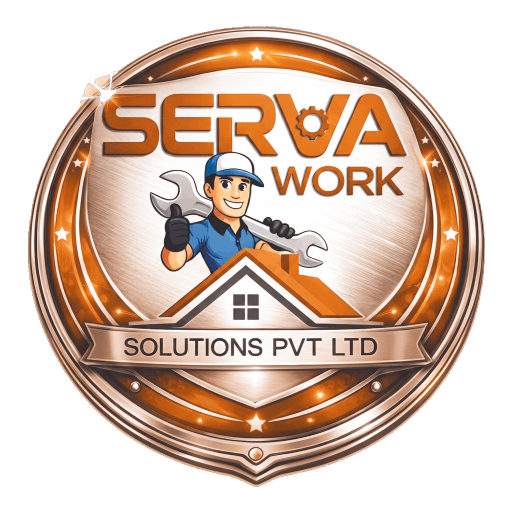
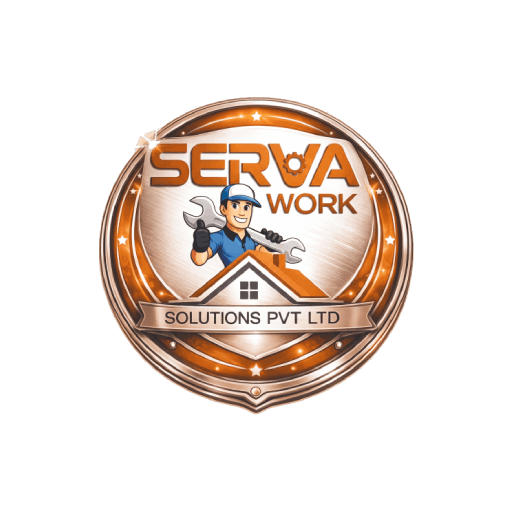
update

diff --git a/customer_app/src/screens/ForceUpdateScreen.tsx b/customer_app/src/screens/ForceUpdateScreen.tsx
@@ -1,0 +1,109 @@
+import { Linking, Platform, StyleSheet, Text, View } from "react-native";
+import { SafeAreaView } from "react-native-safe-area-context";
+import { Feather } from "@expo/vector-icons";
+import Button from "../components/ui/Button";
+import { colors, radius, spacing } from "../theme/colors";
+
+type ForceUpdateScreenProps = {
+    message: string;
+    storeUrl: string;
+    applicationName?: string;
+    currentVersion: string;
+    requiredVersion: string;
+};
+
+export default function ForceUpdateScreen({
+    message,
+    storeUrl,
+    applicationName,
+    currentVersion,
+    requiredVersion,
+}: ForceUpdateScreenProps) {
+    const openStore = () => {
+        if (!storeUrl) return;
+        void Linking.openURL(storeUrl);
+    };
+
+    return (
+        <SafeAreaView style={styles.safe}>
+            <View style={styles.container}>
+                <View style={styles.iconWrap}>
+                    <Feather name="download-cloud" size={40} color={colors.primary} />
+                </View>
+
+                <Text style={styles.title}>Update required</Text>
+                {applicationName ? <Text style={styles.appName}>{applicationName}</Text> : null}
+
+                <Text style={styles.message}>{message}</Text>
+
+                <Text style={styles.versionLine}>
+                    Your version: {currentVersion} · Required: {requiredVersion}
+                </Text>
+
+                <Button
+                    label={Platform.OS === "ios" ? "Open App Store" : "Open Play Store"}
+                    onPress={openStore}
+                    fullWidth
+                    disabled={!storeUrl}
+                />
+
+                {!storeUrl ? (
+                    <Text style={styles.hint}>Store link is not configured. Contact support.</Text>
+                ) : null}
+            </View>
+        </SafeAreaView>
+    );
+}
+
+const styles = StyleSheet.create({
+    safe: {
+        flex: 1,
+        backgroundColor: colors.muted,
+    },
+    container: {
+        flex: 1,
+        justifyContent: "center",
+        paddingHorizontal: spacing.xl,
+        gap: spacing.md,
+    },
+    iconWrap: {
+        alignSelf: "center",
+        width: 88,
+        height: 88,
+        borderRadius: 44,
+        backgroundColor: "rgba(240,116,26,0.12)",
+        alignItems: "center",
+        justifyContent: "center",
+        marginBottom: spacing.sm,
+    },
+    title: {
+        fontSize: 24,
+        fontWeight: "800",
+        color: colors.foreground,
+        textAlign: "center",
+    },
+    appName: {
+        fontSize: 15,
+        fontWeight: "600",
+        color: colors.mutedForeground,
+        textAlign: "center",
+        marginTop: -spacing.sm,
+    },
+    message: {
+        fontSize: 15,
+        lineHeight: 22,
+        color: colors.foreground,
+        textAlign: "center",
+    },
+    versionLine: {
+        fontSize: 12,
+        color: colors.mutedForeground,
+        textAlign: "center",
+        marginBottom: spacing.sm,
+    },
+    hint: {
+        fontSize: 12,
+        color: colors.destructive,
+        textAlign: "center",
+    },
+});

diff --git a/customer_app/src/helpers/appVersion.ts b/customer_app/src/helpers/appVersion.ts
@@ -1,0 +1,78 @@
+import { Platform } from "react-native";
+import Constants from "expo-constants";
+import * as Application from "expo-application";
+import type { GeneralSettings } from "../api/types";
+import { isExpoGo } from "../notifications/push";
+
+export function getCurrentAppVersion(): string {
+    return Application.nativeApplicationVersion ?? Constants.expoConfig?.version ?? "0.0.0";
+}
+
+export function compareVersions(a: string, b: string): number {
+    const parse = (v: string) => v.trim().split(".").map((part) => {
+        const n = parseInt(part.replace(/[^\d]/g, ""), 10);
+        return Number.isFinite(n) ? n : 0;
+    });
+
+    const pa = parse(a);
+    const pb = parse(b);
+    const len = Math.max(pa.length, pb.length);
+
+    for (let i = 0; i < len; i += 1) {
+        const diff = (pa[i] ?? 0) - (pb[i] ?? 0);
+        if (diff !== 0) return diff < 0 ? -1 : 1;
+    }
+
+    return 0;
+}
+
+export type AppUpdateStatus = {
+    blocking: boolean;
+    message: string;
+    storeUrl: string;
+    currentVersion: string;
+    requiredVersion: string;
+};
+
+function platformUpdateFields(settings: GeneralSettings) {
+    if (Platform.OS === "android") {
+        return {
+            requiredVersion: settings.app_version_android?.trim() ?? "",
+            forceUpdate: settings.force_update_android === "1",
+            message: settings.force_update_message_android?.trim() ?? "",
+            storeUrl: settings.app_url_android?.trim() ?? "",
+        };
+    }
+
+    if (Platform.OS === "ios") {
+        return {
+            requiredVersion: settings.app_version_ios?.trim() ?? "",
+            forceUpdate: settings.force_update_ios === "1",
+            message: settings.force_update_message_ios?.trim() ?? "",
+            storeUrl: settings.app_url_ios?.trim() ?? "",
+        };
+    }
+    return null;
+}
+
+export function getAppUpdateStatus(settings: GeneralSettings): AppUpdateStatus {
+    const currentVersion = getCurrentAppVersion();
+    const empty: AppUpdateStatus = { blocking: false, message: "", storeUrl: "", currentVersion, requiredVersion: "", };
+
+    if (Platform.OS !== "android" && Platform.OS !== "ios") return empty;
+    if (isExpoGo()) return empty;
+
+    const platform = platformUpdateFields(settings);
+    if (!platform?.forceUpdate || !platform.requiredVersion) return empty;
+
+    const isOutdated = compareVersions(currentVersion, platform.requiredVersion) < 0;
+    if (!isOutdated) return empty;
+
+    return {
+        blocking: true,
+        message: platform.message || "A new version of the app is available. Please update from the store to continue.",
+        storeUrl: platform.storeUrl,
+        currentVersion,
+        requiredVersion: platform.requiredVersion,
+    };
+}

diff --git a/customer_app/src/context/SettingsContext.tsx b/customer_app/src/context/SettingsContext.tsx
@@ -1,7 +1,6 @@
 import { createContext, useCallback, useContext, useEffect, useMemo, useState, type ReactNode } from "react";
 import { fetchGeneralSettings } from "../api";
 import type { GeneralSettings } from "../api/types";
-import { DEFAULT_APP_SETTINGS, mergeAppSettings } from "./settingsDefaults";
 
 type SettingsContextValue = {
     settings: GeneralSettings;
@@ -9,6 +8,35 @@ type SettingsContextValue = {
 };
 
 const SettingsContext = createContext<SettingsContextValue | null>(null);
+
+export const DEFAULT_APP_SETTINGS: GeneralSettings = {
+    favicon: "",
+    logo: "",
+    application_name: "",
+    copyright: "",
+    address: "",
+    email: "",
+    phone: "",
+    brand_tagline: "",
+    facebook: "",
+    twitter: "",
+    linkdin: "",
+    instagram: "",
+    force_update_android: "",
+    force_update_ios: "",
+    app_version_android: "",
+    app_version_ios: "",
+    app_url_android: "",
+    app_url_ios: "",
+    force_update_message_android: "",
+    force_update_message_ios: "",
+    maintenance: "",
+    maintenance_toggle: "",
+    information_banner: "",
+    information_banner_toggle: "",
+    baseUrl: "",
+    uploadUrl: "",
+};
 
 export function SettingsProvider({ children }: { children: ReactNode }) {
     const [settings, setSettings] = useState<GeneralSettings>(DEFAULT_APP_SETTINGS);
@@ -18,7 +46,7 @@ export function SettingsProvider({ children }: { children: ReactNode }) {
         void (async () => {
             const response = await fetchGeneralSettings();
             if (response.status && response.data) {
-                setSettings(mergeAppSettings(response.data));
+                setSettings({ ...DEFAULT_APP_SETTINGS, ...(response.data || {}) });
                 setBootstrapping(false);
             } else {
                 setBootstrapping(false);

diff --git a/customer_app/App.tsx b/customer_app/App.tsx
@@ -1,14 +1,18 @@
+import { useMemo } from "react";
 import { StatusBar } from "expo-status-bar";
 import { ActivityIndicator, StyleSheet, Text, View } from "react-native";
 import { SafeAreaProvider } from "react-native-safe-area-context";
 import { AuthProvider, useAuth } from "./src/context/AuthContext";
 import { SettingsProvider, useSettings } from "./src/context/SettingsContext";
+import { getAppUpdateStatus } from "./src/helpers/appVersion";
 import AppNavigator from "./src/navigation/AppNavigator";
+import ForceUpdateScreen from "./src/screens/ForceUpdateScreen";
 import { colors } from "./src/theme/colors";
 
 function AppBootstrap() {
     const { bootstrapping: settingsBoot, settings } = useSettings();
     const { bootstrapping: authBoot } = useAuth();
+    const updateStatus = useMemo(() => getAppUpdateStatus(settings), [settings]);
 
     if (settingsBoot || authBoot) {
         return (
@@ -18,6 +22,21 @@ function AppBootstrap() {
                     <Text style={styles.splashTitle}>{settings.application_name}</Text>
                 ) : null}
             </View>
+        );
+    }
+
+    if (updateStatus.blocking) {
+        return (
+            <>
+                <ForceUpdateScreen
+                    message={updateStatus.message}
+                    storeUrl={updateStatus.storeUrl}
+                    applicationName={settings.application_name}
+                    currentVersion={updateStatus.currentVersion}
+                    requiredVersion={updateStatus.requiredVersion}
+                />
+                <StatusBar style="dark" />
+            </>
         );
     }
 

diff --git a/backend/src/seeders/settings.seeder.js b/backend/src/seeders/settings.seeder.js
@@ -28,9 +28,9 @@ export const SETTINGS_SEED_ROWS = [
     [5, "sms_sender", "TextLocal Sender Id", "text", "AYTSMS"],
     [6, "force_update_android", "Force Update Android", "check", "1"],
     [6, "force_update_ios", "Force Update IOS", "check", "1"],
-    [6, "app_version_android", "App Version Android App", "number", "1.0"],
-    [6, "app_version_ios", "App Version IOS App", "number", "1.0"],
-    [6, "app_url_android", "App URL Android App", "text", "com.adiyogi.fintech"],
+    [6, "app_version_android", "App Version Android App", "text", "1.0"],
+    [6, "app_version_ios", "App Version IOS App", "text", "1.0"],
+    [6, "app_url_android", "App URL Android App", "text", "https://play.google.com/store/apps/details"],
     [6, "app_url_ios", "App URL IOS App", "text", "https://www.apple.com/in/app-store"],
     [6, "force_update_message_android", "Force Update Message Android", "textarea", "Force Update Message.."],
     [6, "force_update_message_ios", "Force Update Message IOS", "textarea", "Force Update Message.."],
@@ -40,9 +40,9 @@ export const SETTINGS_SEED_ROWS = [
     [6, "information_banner_toggle", "Information Banner Toggle", "check", "0"],
     [7, "force_update_android_pro", "Force Update Android", "check", "1"],
     [7, "force_update_ios_pro", "Force Update IOS", "check", "1"],
-    [7, "app_version_android_pro", "App Version Android App", "number", "1.0"],
-    [7, "app_version_ios_pro", "App Version IOS App", "number", "1.0"],
-    [7, "app_url_android_pro", "App URL Android App", "text", "com.adiyogi.fintech"],
+    [7, "app_version_android_pro", "App Version Android App", "text", "1.0"],
+    [7, "app_version_ios_pro", "App Version IOS App", "text", "1.0"],
+    [7, "app_url_android_pro", "App URL Android App", "text", "https://play.google.com/store/apps/details"],
     [7, "app_url_ios_pro", "App URL IOS App", "text", "https://www.apple.com/in/app-store"],
     [7, "force_update_message_android_pro", "Force Update Message Android", "textarea", "Force Update Message.."],
     [7, "force_update_message_ios_pro", "Force Update Message IOS", "textarea", "Force Update Message.."],